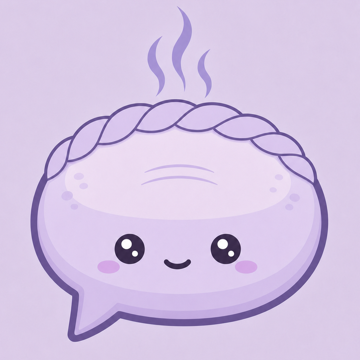
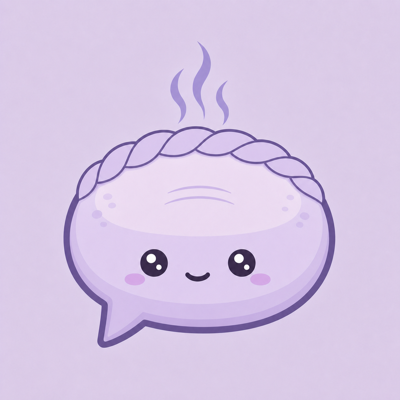
Welcome bread: bigger, whole tail inside the circle

diff --git a/styles.css b/styles.css
@@ -236,8 +236,8 @@ body { overscroll-behavior-y: none; }
 .speak:active { transform: scale(0.92); }
 
 /* ---------- empty (a calm first screen, with a little company) ---------- */
-.empty { min-height: 8px; display: flex; justify-content: center; padding-top: 9vh; }
-.empty__img { width: 150px; height: 150px; border-radius: 50%; opacity: 0.9; }
+.empty { min-height: 8px; display: flex; justify-content: center; padding-top: 7vh; }
+.empty__img { width: 190px; height: 190px; border-radius: 50%; opacity: 0.9; }
 .btn__icon svg { display: block; }
 
 /* ---------- phrasebook ---------- */

diff --git a/app.js b/app.js
@@ -966,7 +966,7 @@ document.addEventListener("DOMContentLoaded", init);
 
 // Offline shell, with self-updating: when a newer version of Puri takes over,
 // the page reloads itself once so nobody is ever stuck on an old copy.
-const APP_VERSION = "17";
+const APP_VERSION = "18";
 if ("serviceWorker" in navigator) {
   window.addEventListener("load", () => navigator.serviceWorker.register("sw.js").catch(() => {}));
   let reloaded = false;

diff --git a/index.html b/index.html
@@ -98,7 +98,7 @@
       </section>
 
       <section class="empty" id="empty" aria-hidden="true">
-        <img class="empty__img" src="welcome.png" alt="" width="150" height="150" />
+        <img class="empty__img" src="welcome.png" alt="" width="190" height="190" />
       </section>
     </main>
 

diff --git a/sw.js b/sw.js
@@ -1,7 +1,7 @@
 /* Puri offline shell. Network-first so the newest version always loads when
    online; falls back to cache when there's no signal. Translation and voice
    calls always go to the network. The saved phrasebook lives on the device. */
-const CACHE = "puri-v17";
+const CACHE = "puri-v18";
 const SHELL = [
   "./",
   "index.html",